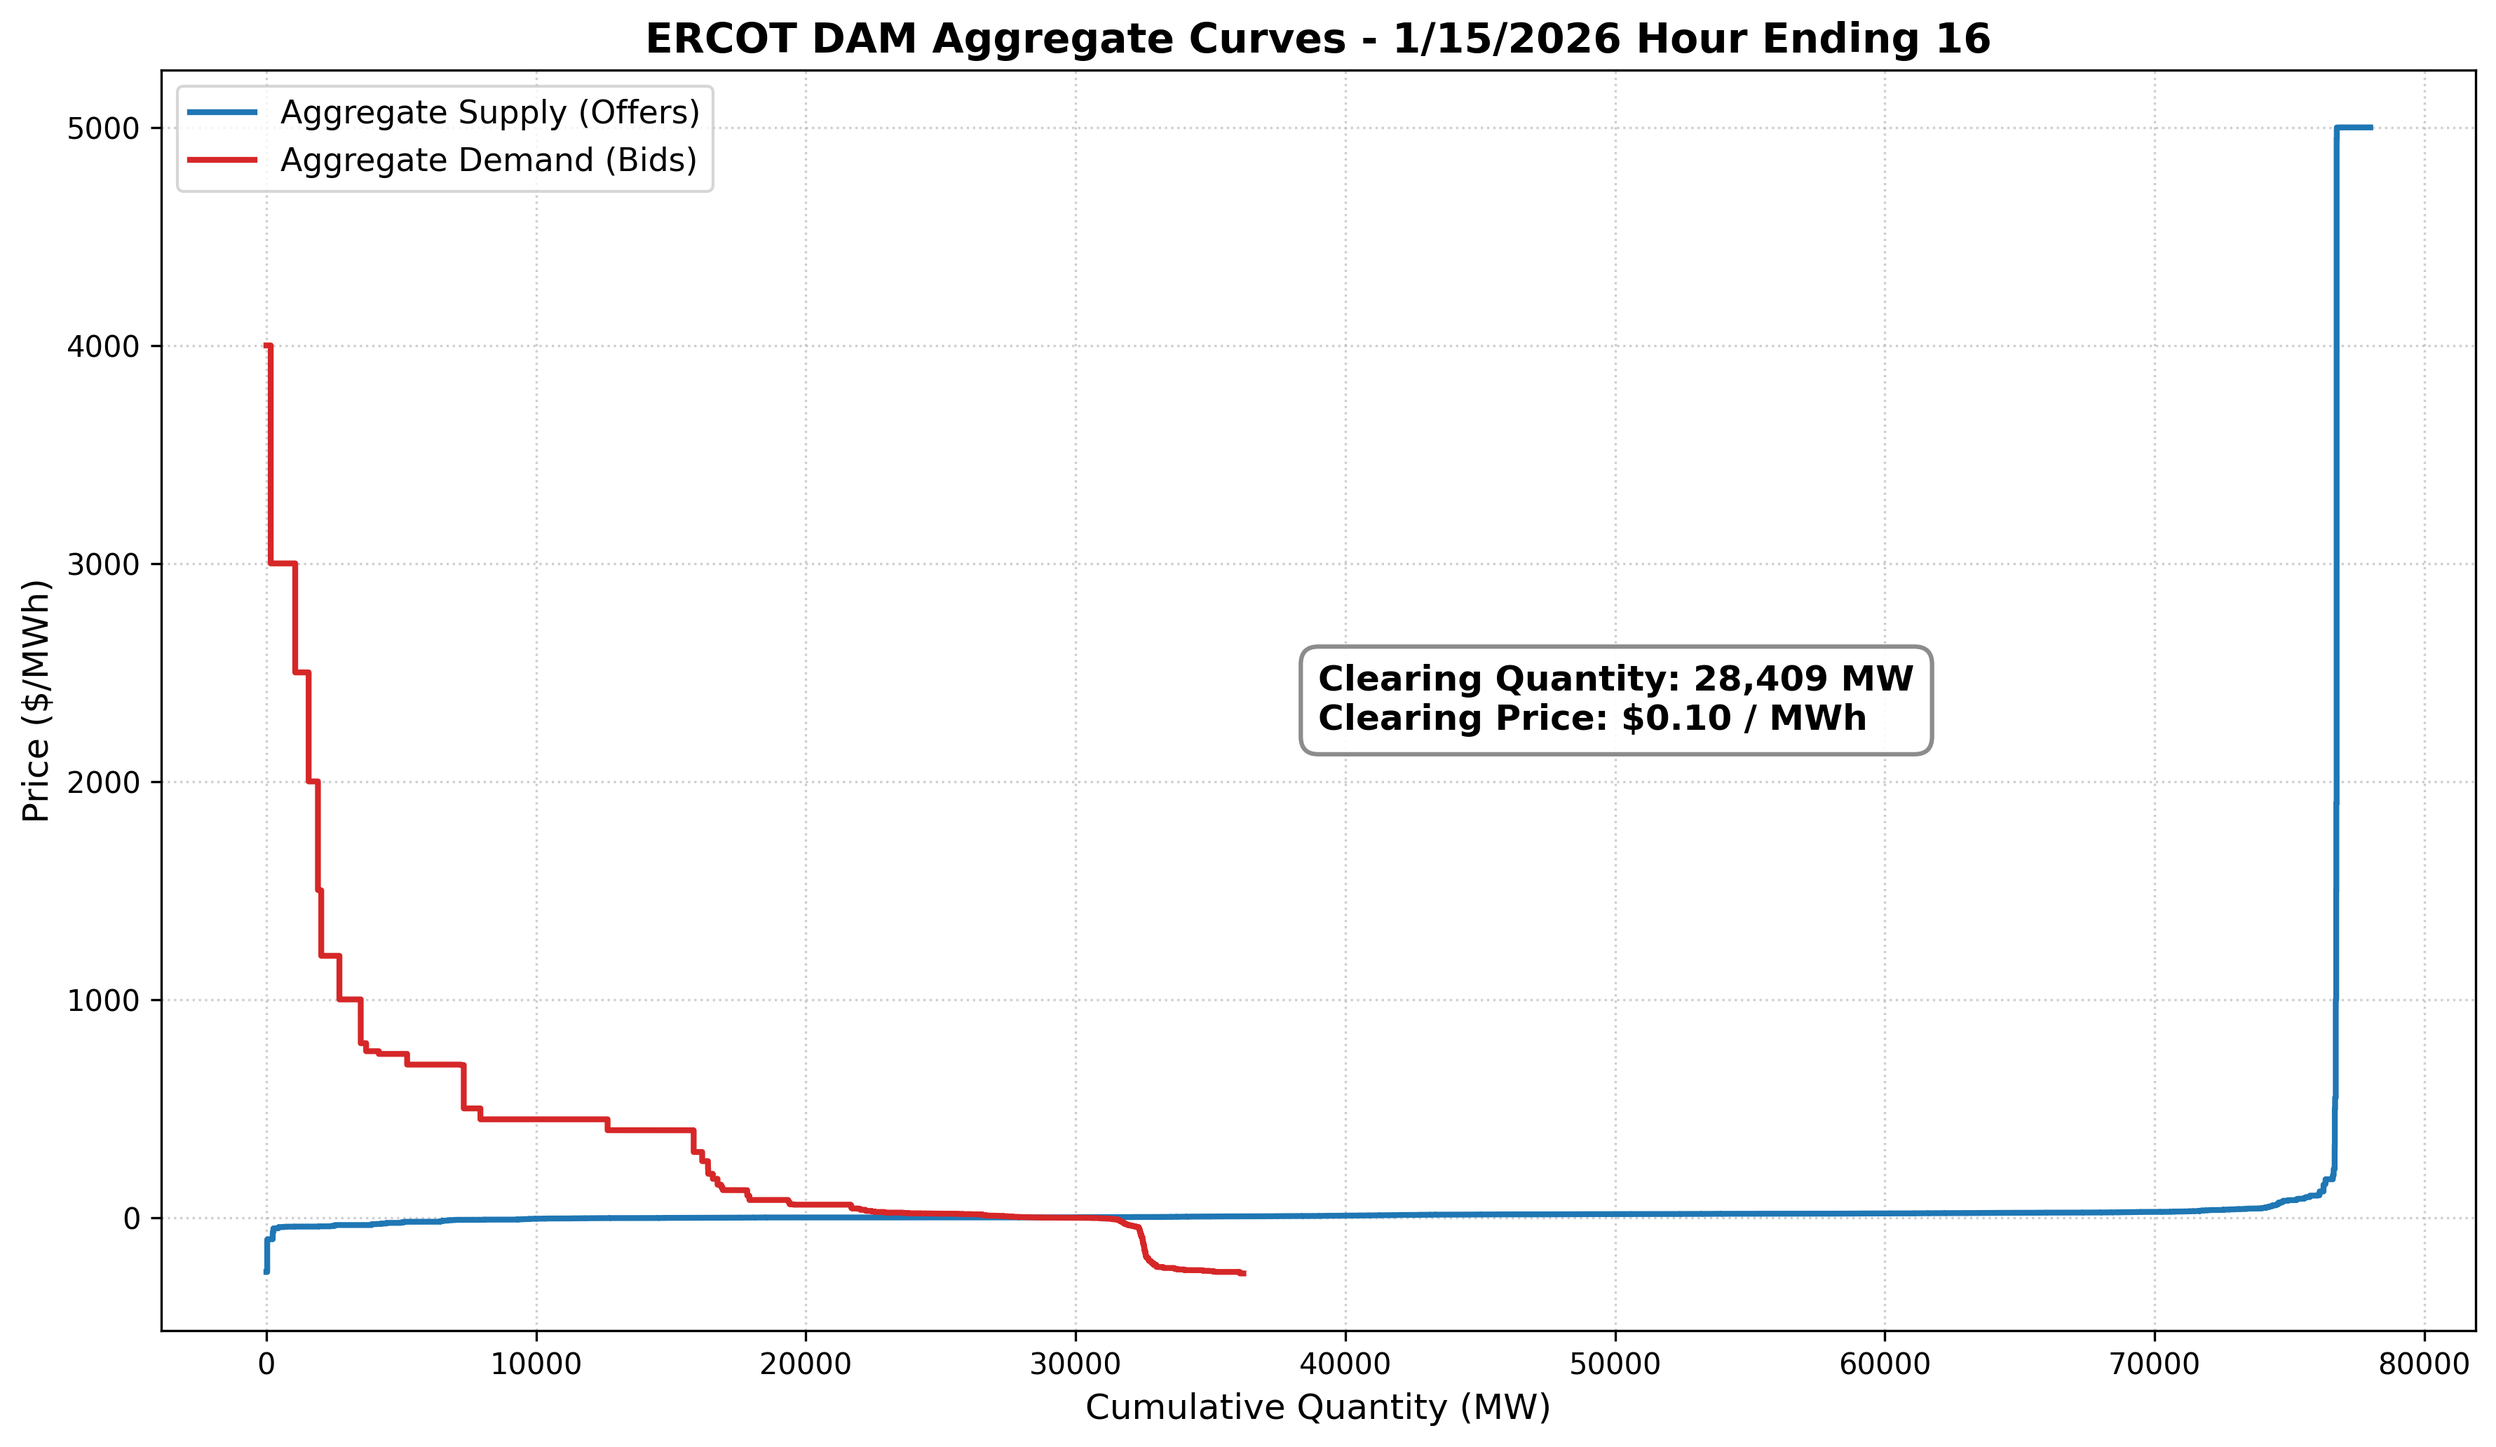
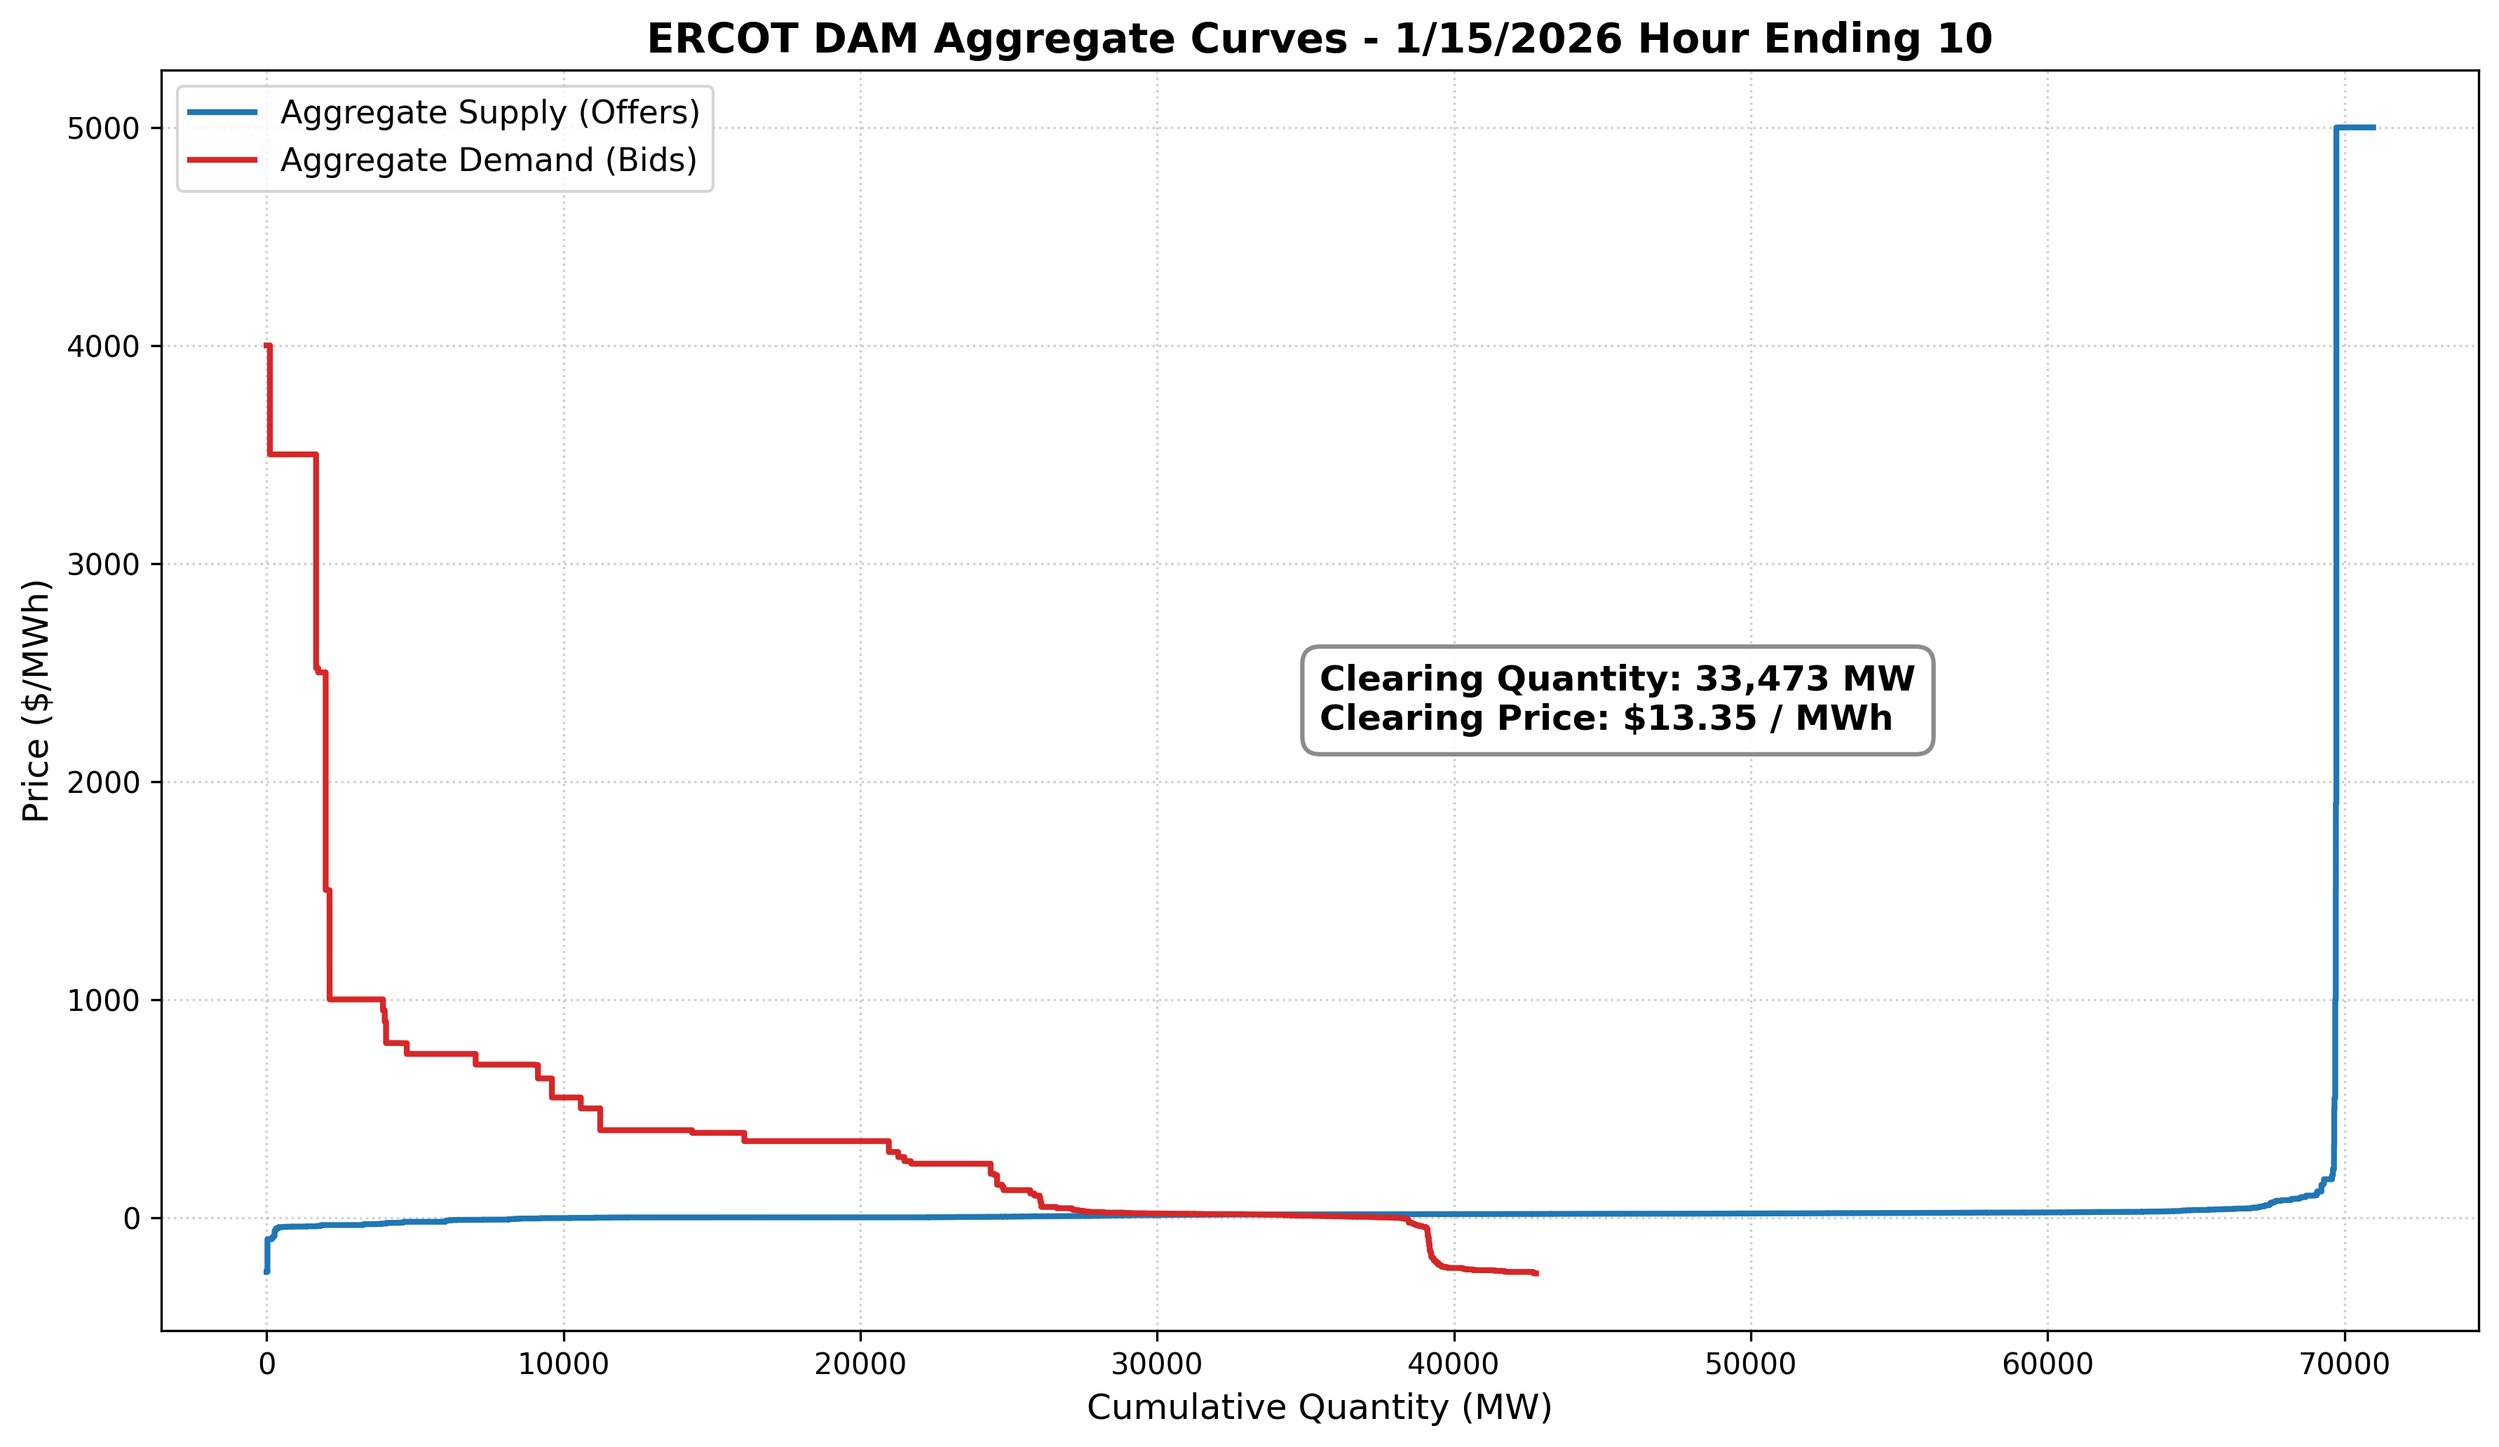
new naming scheme

diff --git a/src/ERCOT_AggDemand&Supply.py b/src/ERCOT_AggDemand&Supply.py
@@ -6,8 +6,8 @@ import re
 # 1. CONFIGURATION: Set your targets and files
 # ==========================================
 TARGET_DATE = '1/15/2026'  
-TARGET_HOUR = 16 
-TARGET_SCED_TIMESTAMP = '01/15/2026 15:55:00' 
+TARGET_HOUR = 20 
+TARGET_SCED_TIMESTAMP = '01/15/2026 19:55:00' 
 
 # DAM File Names
 FILE_DAM_BIDS = '/Users/dannysalingerbrown/Desktop/Energy-Graphs-Misc/data/March16DAM_60Day/60d_DAM_EnergyBids-16-MAR-26.csv'
@@ -132,7 +132,7 @@ def plot_sced():
                            verticalalignment='center', bbox=bbox_props, fontweight='bold')
 
     plt.tight_layout()
-    plt.savefig('SCED_Curve_4pm.png', dpi=300, bbox_inches='tight')
+    plt.savefig(f'SCED_Curve_HE{TARGET_HOUR}.png', dpi=300, bbox_inches='tight')
     plt.show()
 
 # ==========================================
@@ -217,7 +217,7 @@ def plot_dam():
                        verticalalignment='center', bbox=bbox_props, fontweight='bold')
 
     plt.tight_layout()
-    plt.savefig('DAM_Curve_4pm.png', dpi=300, bbox_inches='tight')
+    plt.savefig(f'DAM_Curve_HE{TARGET_HOUR}.png', dpi=300, bbox_inches='tight')
     plt.show()
 
 # ==========================================
